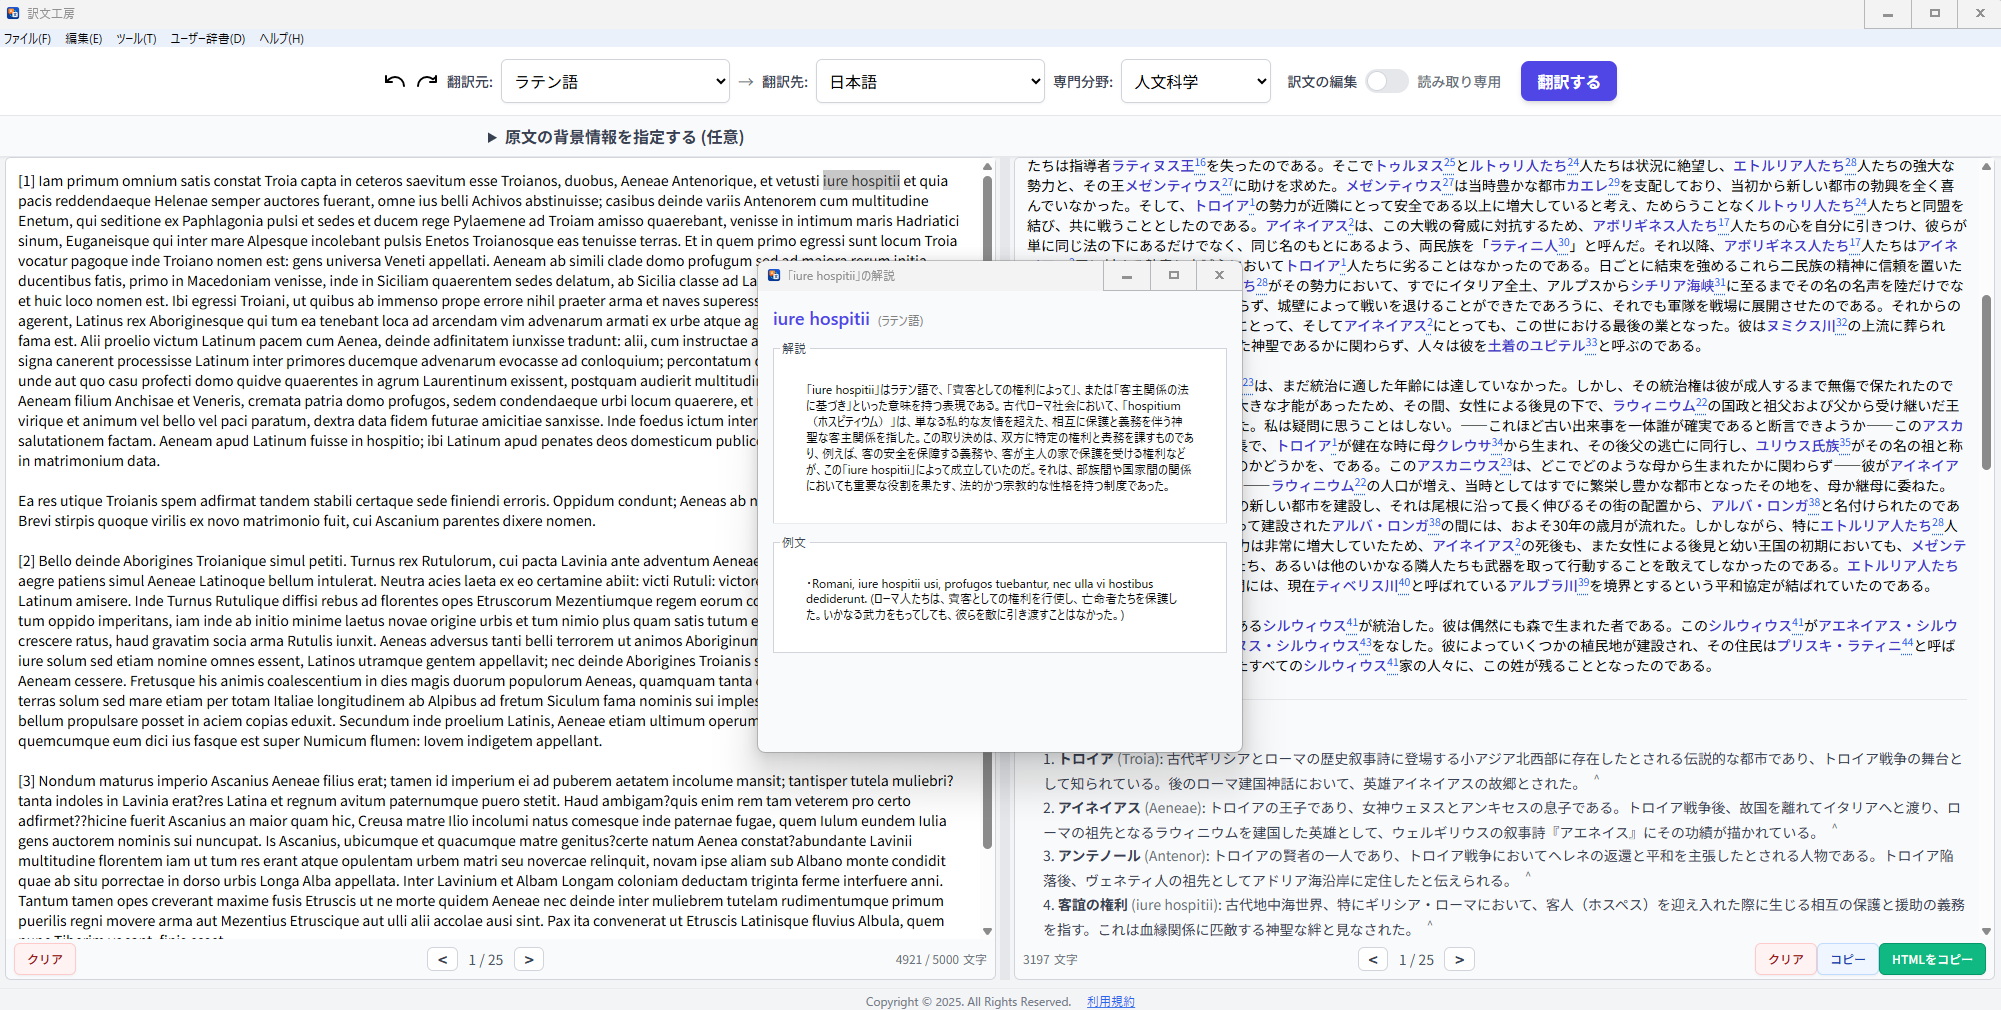
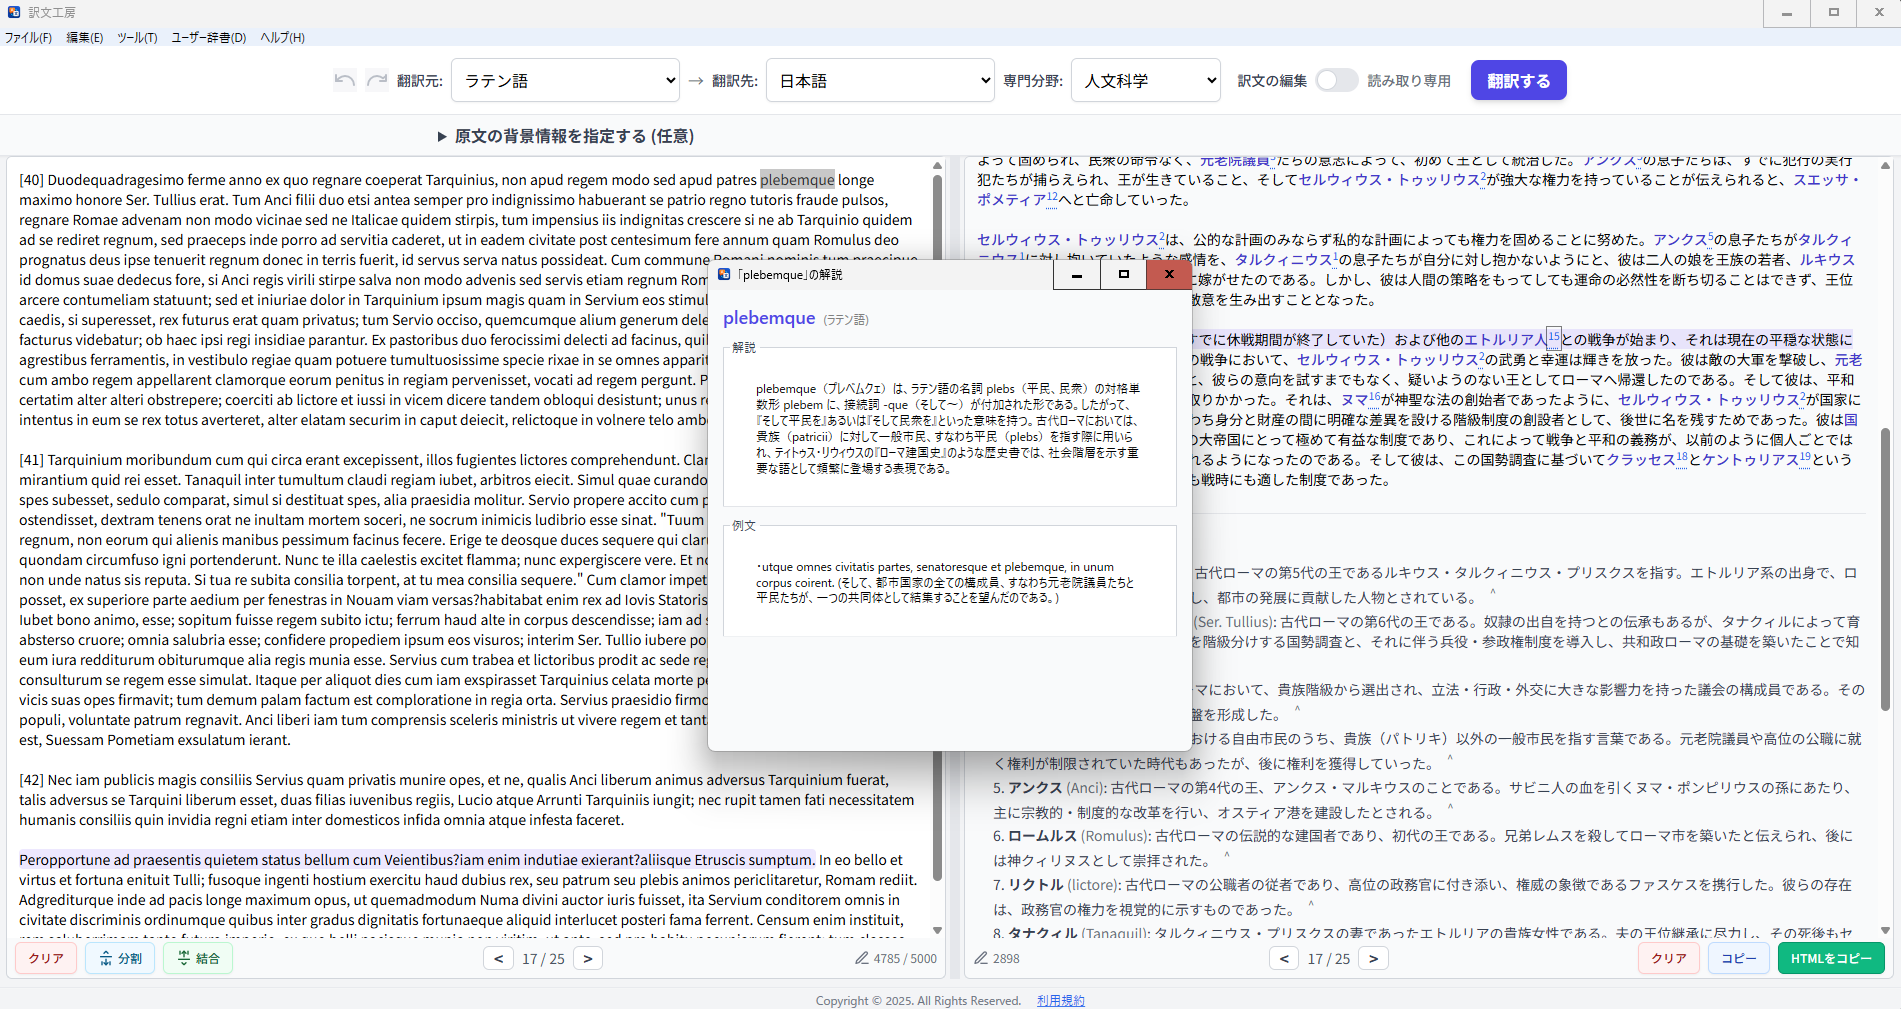
README.mdのページング機能の説明を修正し、スクリーンショットを更新しました。

diff --git a/README.md b/README.md
@@ -17,7 +17,7 @@
 *   **ユーザー辞書**: 専門用語や製品名、人名などを登録することで、翻訳の一貫性を保ち、精度を向上させます。
 *   **文体指定**: 日本語への翻訳時に、丁寧な「敬体（です・ます調）」と、常体の「常体（だ・である調）」を選択できます。
 *   **ファイル翻訳**: テキストファイル (`.txt`)、PDFファイル (`.pdf`)、Word文書 (`.docx`)、OpenDocumentテキスト (`.odt`) の内容を直接読み込んで翻訳できます。
-*   **ページング機能**: 長文のファイルやテキストも、読み込み時に自動でページに分割。ページごとに翻訳・編集ができるため、大規模な文書も快適に扱えます。
+*   **ページング機能**: 長文のファイルやテキストも、読み込み時に自動でページに分割。ページごとに翻訳・編集ができるほか、手動でのページの分割・結合も可能なため、大規模な文書も快適に扱えます。
 *   **語句の解説**: 翻訳元のテキスト中の単語やフレーズを選択し、その意味や背景をAIに解説させることができます。
 *   **注釈の自動生成**: 翻訳結果に、より詳細な背景情報や文化的ニュアンスを説明する注釈を自動で追加できます。
 *   **原文コンテキスト指定**: 翻訳の精度を向上させるため、原文のタイトル、著者、出典といった背景情報を指定できます。
